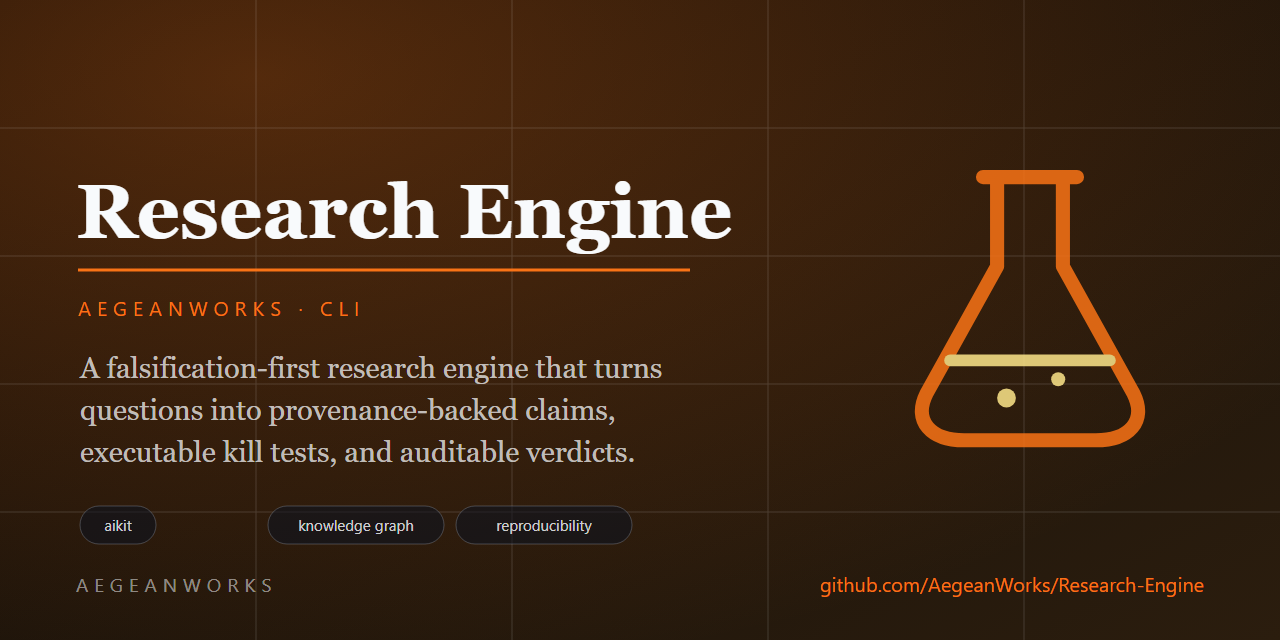
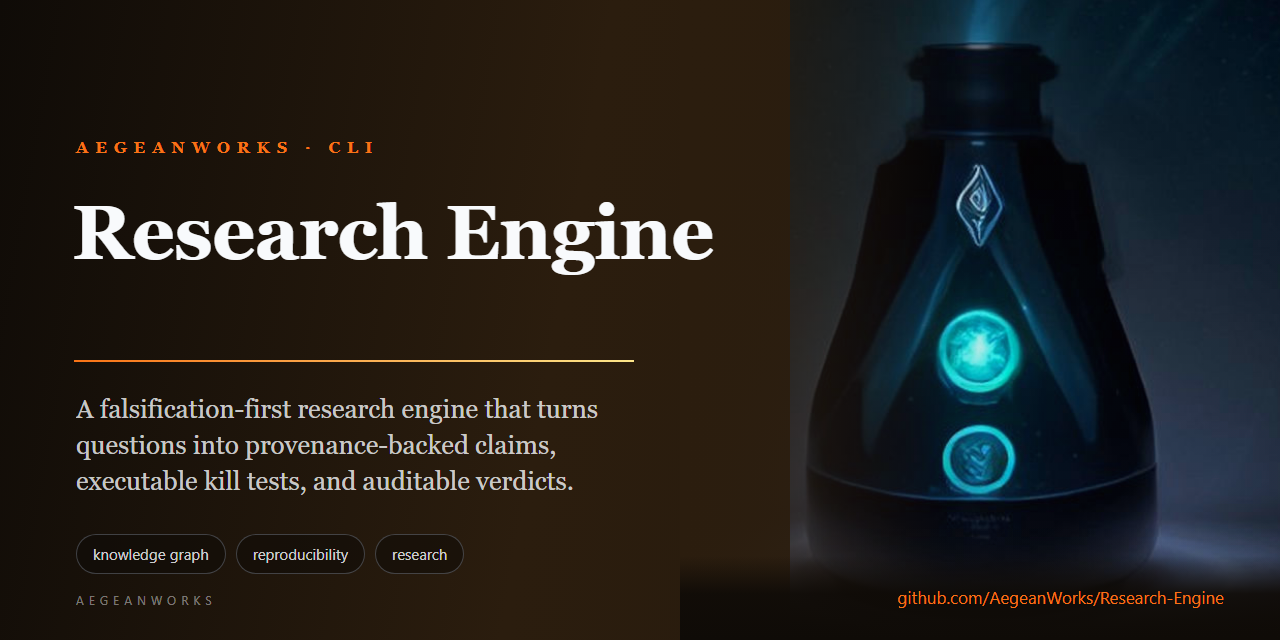
feat(brand): replace procedural marks with reviewed AI-art identities

diff --git a/README.md b/README.md
@@ -1,8 +1,8 @@
 # Research Engine
 
 <!-- aegean:media:start -->
-<p align="center"><img src="assets/logo.svg" alt="Research-Engine logo" width="96" height="96"></p>
-<p align="center"><img src="assets/social-preview.svg" alt="Research-Engine social preview" width="100%"></p>
+<p align="center"><img src="assets/logo.png" alt="Research-Engine logo" width="96" height="96"></p>
+<p align="center"><img src="assets/social-preview.png" alt="Research-Engine social preview" width="100%"></p>
 <!-- aegean:media:end -->
 
 [![Built with AIKit](https://img.shields.io/badge/built%20with-AIKit-6f42c1)](https://github.com/AegeanWorks/AIKit)
